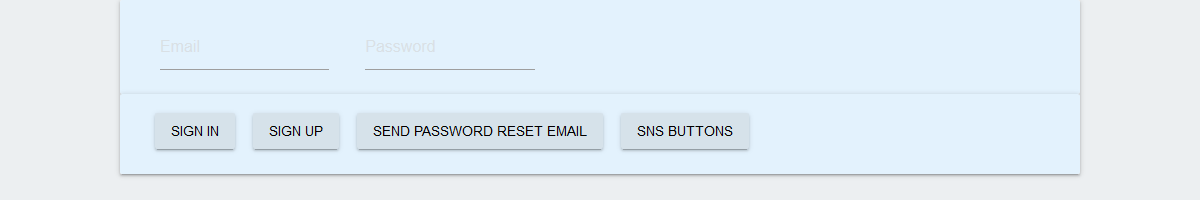
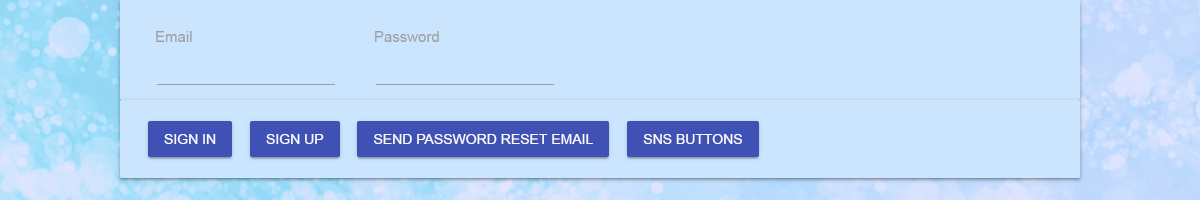
pending use firebase ui

diff --git a/_sitesystem/05-firebase.md b/_sitesystem/05-firebase.md
@@ -489,8 +489,62 @@ Setting→Developer setting→OAuth Appsへ。
 
 作成したアプリを開くとClient IDとClient Secretが表示されているので、それをFirebase側に登録。  
 
-### FirebaseUIで作る
 
+### 認証画面を作ってみる
+
+元ネタは[Firebase Auth Quickstarts](https://github.com/firebase/quickstart-js/tree/7d514fb4700d3a1681c47bf3e0ff0fa3d7c91910/auth)。  
+サインインしたあとは別ページに飛ばしたいので、そのあたりを変えてみた。
+
+{% comment %}
+#### 同じ画面で遷移
+
+まずはこういうページを。
+<script src="https://gist.github.com/laureltreetop/0600ebaad0a3b88fb45981291dc72c2f.js"></script>
+
+そしてスクリプト。
+<script src="https://gist.github.com/laureltreetop/a61d450456044babb13d966720ee77db.js"></script>
+{% endcomment %}
+
+まずはサインインのページを。  
+認証しか使わないなら、呼び出すのは`firebase-app.js`と`firebase-auth.js`と`init.js`だけでいい。  
+画面を整えるために[Materialize](https://materializecss.com/)や[Material Design Lite](https://getmdl.io/)も使ってみた。
+<script src="https://gist.github.com/laureltreetop/5ba0786dd680d310b0a853252fb9ac52.js"></script>
+
+そしてスクリプト。  
+サインイン・サインアップ周りは元ネタから取ってきたコードほぼそのまま。
+<script src="https://gist.github.com/laureltreetop/b9c2f5401b588feb826dd99b416e5ef6.js"></script>
+
+サインイン後のページ。
+<script src="https://gist.github.com/laureltreetop/325b231e157682ad806564b687d4c5aa.js"></script>
+
+そしてスクリプト。
+<script src="https://gist.github.com/laureltreetop/00bf783e762aa9c8cb63b33a23bfff3a.js"></script>
+
+ログイン画面の初期状態はSNS認証用の画面。  
+各種SNSの設定をしてあれば使える。  
+[![Firebase sign in](/assets/images/firebase_no-ui-sns.png)](/assets/images/firebase_no-ui-sns.png)
+
+GitHub認証をするとこんな感じに。  
+Algoliaの検索フォームを出してる。
+[![Firebase sign in with GitHub](/assets/images/firebase_no-ui-sns-login.png)](/assets/images/firebase_no-ui-sns-login.png)
+
+Email/Passwordボタンでメール認証モードに。 
+登録もパスワード再設定もできる。  
+SNS Buttonsで、さっきのSNS認証モードに戻れる。 
+[![Firebase mail sign](/assets/images/firebase_no-ui-mail-login.png)](/assets/images/firebase_no-ui-mail-login.png)
+
+サインインでパスワードリセットボタンとAlgoliaの検索画面を。  
+[![Firebase mail done](/assets/images/firebase_no-ui-mail-sign-in.png)](/assets/images/firebase_no-ui-mail-sign-in.png)
+
+ポイントとしては、  
+
++ サインインページから認証後`location.href`で飛ばす
++ 飛び先のページで`onAuthStateChanged`を使って情報を受け取る
++ サインインせずに飛び先のページを直接開いても`location.replace`で追い出す
+
+というところかな。
+
+{% comment %}
 + メールアドレスとパスワードを登録すると未認証でも画面が見えるので、それは避けたい
 + メール認証が済むまでは登録画面へ追い出す
 + ログインしていない状態で飛び先のURLを直接開いた場合も追い出す
@@ -504,8 +558,7 @@ $ npm install firebaseui -g
 ```
 
 そして認証用ページ。  
-認証しか使わないなら、呼び出すのは`firebase-app.js`と`firebase-auth.js`と`init.js`だけでいい。  
-あと`<div id="firebaseui-auth-container"></div>`は必須。
+`<div id="firebaseui-auth-container"></div>`は必須。
 <script src="https://gist.github.com/laureltreetop/084eb3b8c3c85fb5418921194b86e260.js"></script>
 `firebase-ui-auth__ja.js`の部分を変えると言語を選べるので、下記リストを参考に`ja`の部分を書き換え。  
 [Supported Languages](https://github.com/firebase/firebaseui-web/blob/master/LANGUAGES.md)
@@ -519,7 +572,6 @@ $ npm install firebaseui -g
 次に認証後のページ。  
 FirebaseUIっぽいボタンが欲しかったので、こちらでもcssを呼び出す。  
 <script src="https://gist.github.com/laureltreetop/ed37ed2b35c4e1263aefc9dd9574a7b4.js"></script>
-画面を整えるために[Materialize](https://materializecss.com/)も使ってみた。
 
 認証後のスクリプト。
 <script src="https://gist.github.com/laureltreetop/b6b15ec0a87308f8c6a5027a72de6fc9.js"></script>
@@ -539,54 +591,7 @@ appendScript(外部ファイル名);
 
 あとはCSSを頑張って書くと、こんな感じに。
 [![FirebaseUI done](/assets/images/firebaseui-done.png)](/assets/images/firebaseui-done.png)
-
-ボタンは`mdl-button mdl-button--raised mdl-button--colored`をクラス指定するとFirebaseUIっぽい感じになる。  
-Algoliaの検索画面を認証式にしたかったので、これで実現できたかな。  
-
-### FirebaseUIなしで作る
-
-元ネタは[Firebase Auth Quickstarts](https://github.com/firebase/quickstart-js/tree/7d514fb4700d3a1681c47bf3e0ff0fa3d7c91910/auth)。  
-
-#### 同じ画面で遷移
-
-まずはこういうページを。
-<script src="https://gist.github.com/laureltreetop/0600ebaad0a3b88fb45981291dc72c2f.js"></script>
-
-そしてスクリプト。
-<script src="https://gist.github.com/laureltreetop/a61d450456044babb13d966720ee77db.js"></script>
-
-ログイン画面の初期状態はSNS認証用の画面。  
-各種SNSの設定をしてあれば使える。  
-{% comment %}
-[![Firebase before sign in](/assets/images/firebase_no-ui-auth.png)](/assets/images/firebase_no-ui-auth.png)
 {% endcomment %}
-[![Firebase before sign in](/assets/images/firebase_no-ui-sns.png)](/assets/images/firebase_no-ui-sns.png)
-
-GitHub認証をするとこんな感じに。  
-Algoliaの検索フォームを出してる。
-[![Firebase sign in with GitHub](/assets/images/firebase_no-ui-sns-login.png)](/assets/images/firebase_no-ui-sns-login.png)
-
-Email/Passwordボタンでメール認証モードに。 
-登録もパスワード再設定もできる。  
-SNS Buttonsで、さっきのSNS認証モードに戻れる。 
-{% comment %}
-[![Firebase after sign in](/assets/images/firebase_no-ui-auth-login.png)](/assets/images/firebase_no-ui-auth-login.png)
-{% endcomment %}
-[![Firebase after sign in](/assets/images/firebase_no-ui-mail-login.png)](/assets/images/firebase_no-ui-mail-login.png)
-
-サインインでフォーム部分を隠して、Algoliaの検索画面を。  
-[![Firebase after sign in](/assets/images/firebase_no-ui-mail-sign-in.png)](/assets/images/firebase_no-ui-mail-sign-in.png)
-
-#### サインイン→認証後のページへ
-
-同じ画面で遷移するやつを分解手術したら、別ページへ飛ばすことも。  
-ポイントとしては、  
-
-+ サインインページから認証後、`location.href`で飛ばす
-+ 飛び先のページで`onAuthStateChanged`を使って情報を受け取る
-+ 飛び先のページを直接開いても`location.replace`でサインインページへ追い出す
-
-というところかな。
 
 ### メールテンプレート
 
